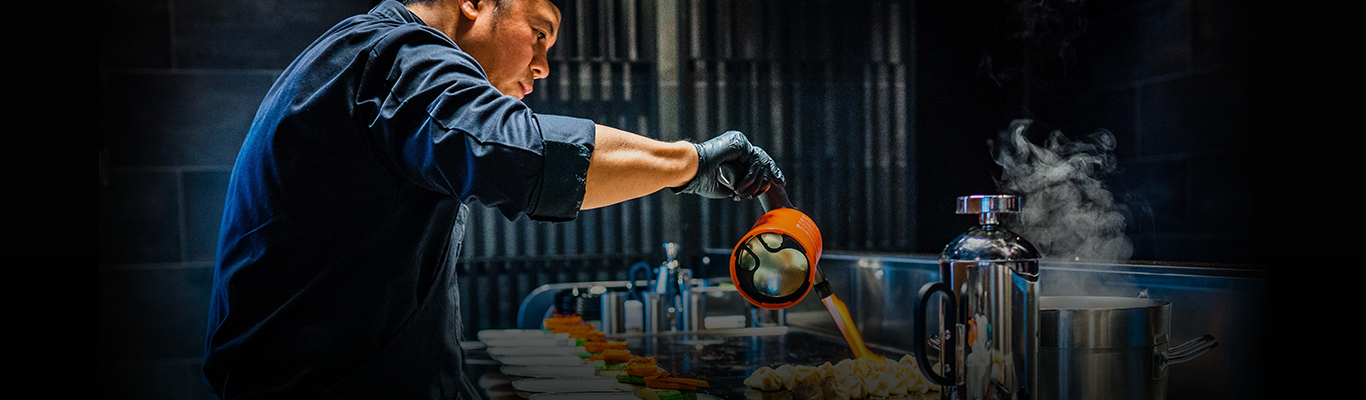
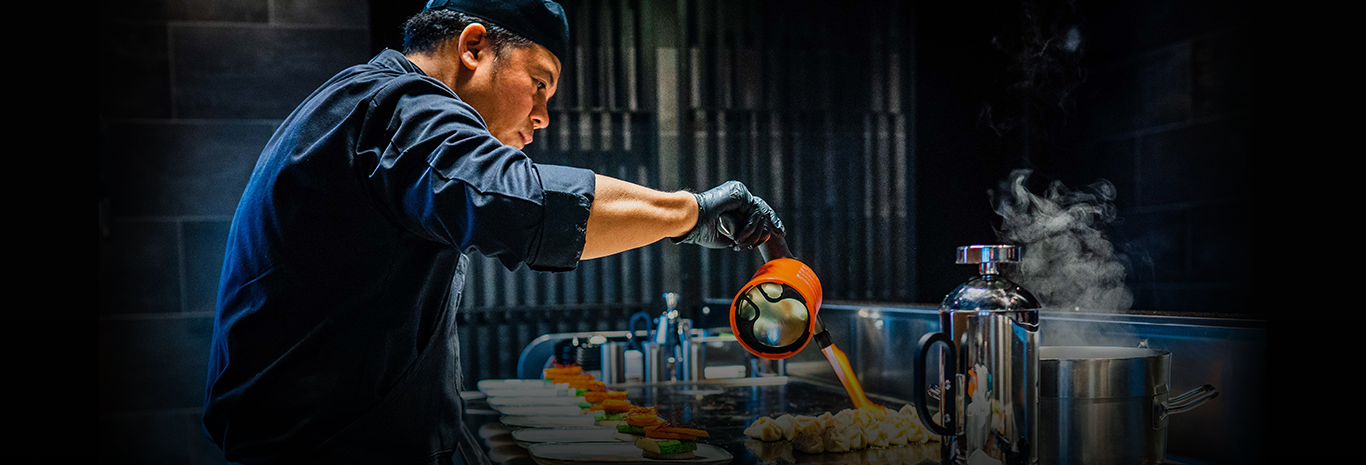
Carrusel

diff --git a/css/style-index.css b/css/style-index.css
@@ -35,9 +35,7 @@ h1 {
     padding: 10px;
   }
 
-.h-carrusel{
-    height: 420px;
-}
+
 
 .gradient {
         background: linear-gradient(#000046, #1cb5e0);   
@@ -154,6 +152,10 @@ section div div p{
     display: flex;
     justify-content: space-between;
     align-items: center;
+}
+
+.h-carrusel{
+    height:100%;
 }
 
 /* Fin Section Menú */
